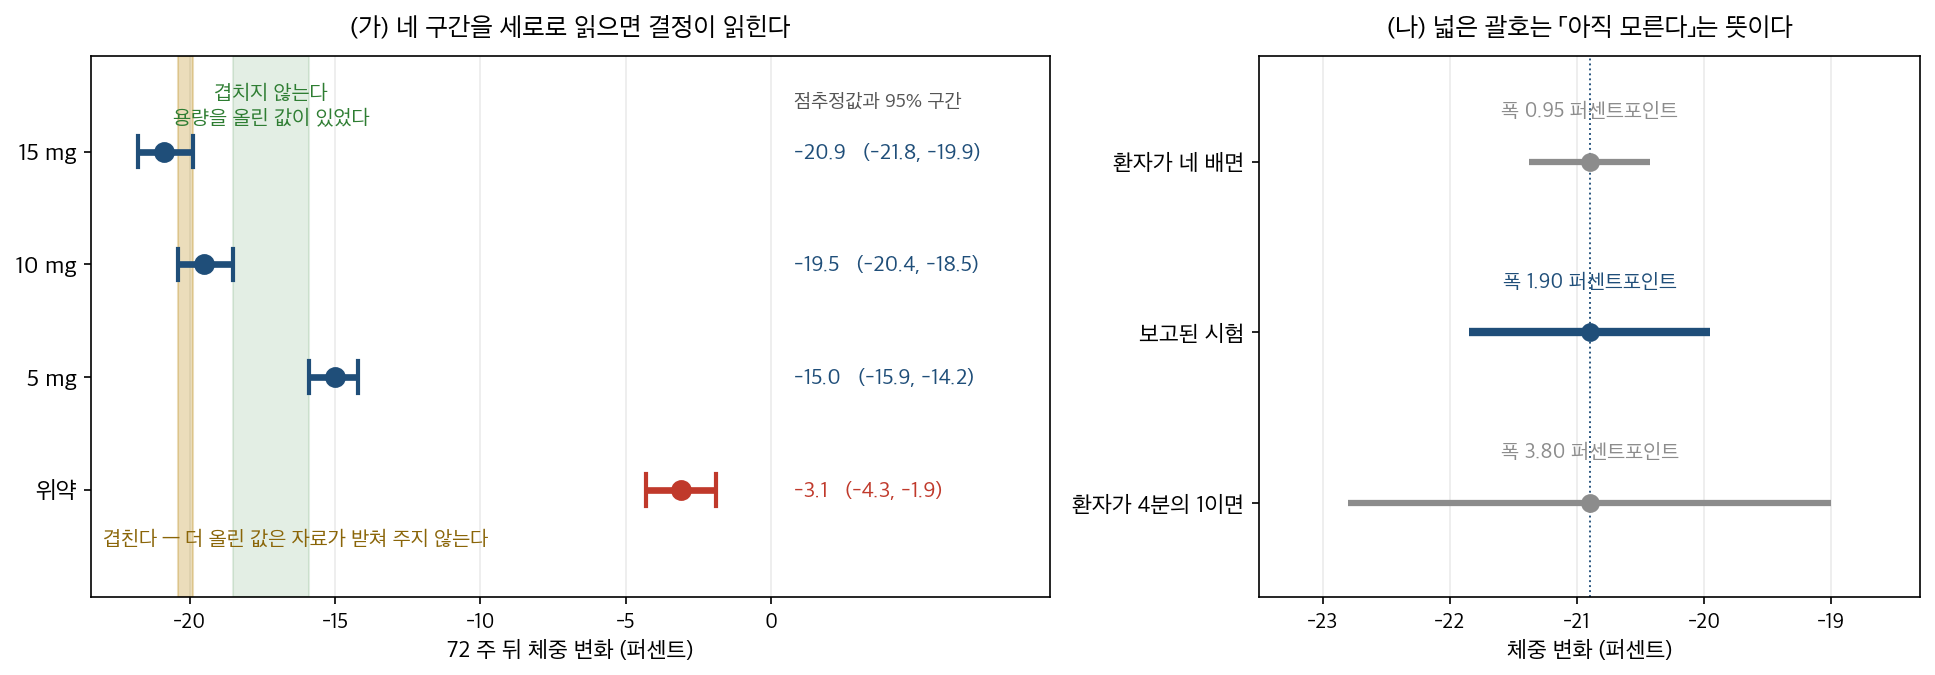
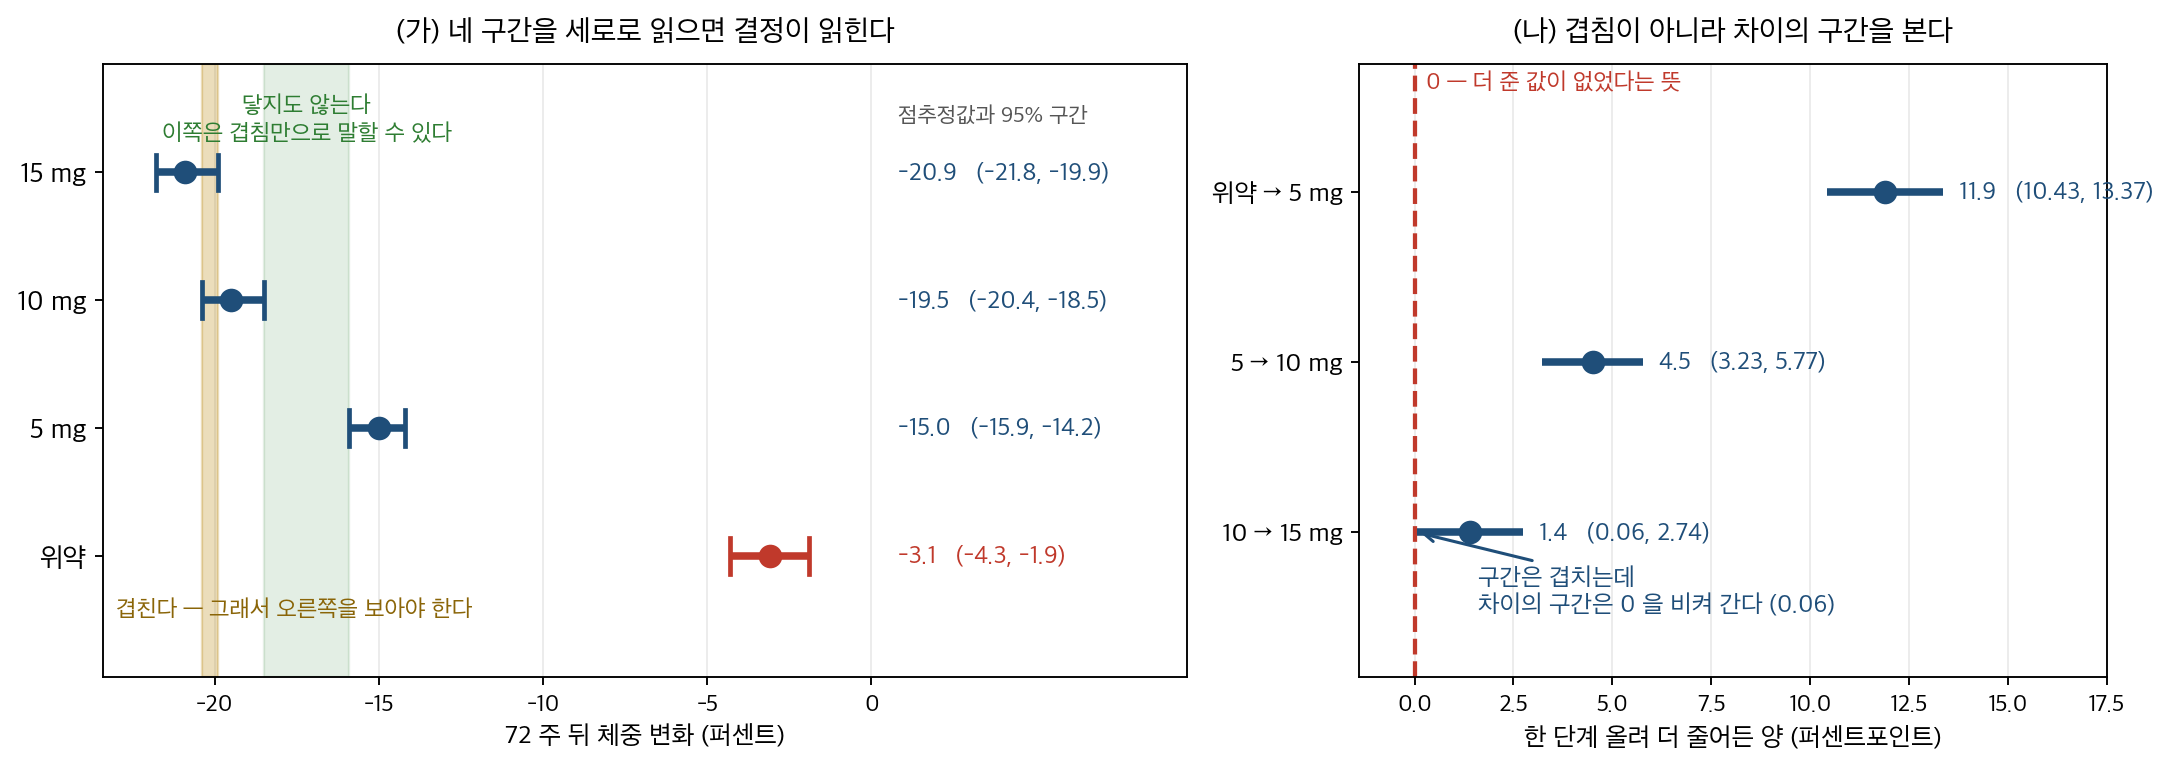
docs(ch08): 장 개요가 이 장이 바로잡는 습관을 가르치고 있었다
사용자가 오른쪽 패널이 심심하다고 짚어 주어 다시 보다가, **왼쪽 주석과
본문이 틀렸다는 것**을 알았다.

적고 있던 것: 「10 mg 과 15 mg 은 괄호가 겹친다 — 더 늘려서 얻은 1.4
퍼센트포인트는 자료가 받쳐 주지 못하는 것이다.」

그런데 같은 장 8.1절 error_bars 가 바로 그 습관을 다룬다 — 「막대가
겹치니 차이가 없다」고 읽으면 같은 자료에서 반대 결론이 나온다고.

그리고 이 자료에서 실제로 반대다. 보고된 네 구간에서 표준오차를 되짚어
차이의 구간을 구하면

  위약 → 5 mg   11.9  (10.43, 13.37)
  5 → 10 mg      4.5  ( 3.23,  5.77)
  10 → 15 mg     1.4  ( 0.06,  2.74)   ← 0 을 비켜 간다

마지막 걸음이 간신히 0 을 비켜 간다. 괄호가 겹치는데 차이는 유의하다.
**장 개요가, 그러니까 이 장을 펴면 가장 먼저 읽는 자리가, 틀린 판단을
가르치고 있었다.**

## 고친 것

- 오른쪽 패널을 1/sqrt(n) 환산에서 **세 걸음의 차와 그 구간**으로 바꿨다.
  심심하다는 지적이 맞았고, 바꾸고 보니 그 자리가 왼쪽의 틀린 읽기를
  고치는 자리이기도 했다
- 왼쪽 주석 「겹친다 — 더 올린 값은 자료가 받쳐 주지 않는다」를
  「겹친다 — 그래서 오른쪽을 보아야 한다」로
- 본문 한 단락을 둘로 나누고, 겹침으로 판단하면 안 되는 까닭과
  error_bars 로 가는 링크를 넣었다. 「괄호가 닿지 않으면 차이가 있다고
  말해도 되지만 그 반대는 성립하지 않는다」를 명시했다
- figcaption·대체텍스트·출처 줄을 새 오른쪽에 맞췄다

고치다가 낸 것 하나 — 출처 줄을 치환할 때 닫는 `_` 를 찾다가
`μ_D` 의 밑줄을 잡아 문장이 「…구했다_D (차이의 평균)의…」로 깨졌다.
한글 본문에서 `_` 를 구분자로 쓰면 수식 이름의 밑줄과 부딪힌다.

검사: 홀수 $ 0 · 홀수 ** 0 · 출처 줄이 _ 로 닫힘 · 대체텍스트 수식 0 ·
lint 다섯 모두 0 · mkdocs build --strict 통과

diff --git a/scripts/make_ch08_index_dose_intervals.py b/scripts/make_ch08_index_dose_intervals.py
@@ -1,10 +1,12 @@
 #!/usr/bin/env python3
 """8장 개요의 그림 — 네 용량의 신뢰구간을 세로로 맞대면 결정이 읽힌다.
 
-왼쪽: SURMOUNT-1 이 보고한 네 구간. 5 mg 과 10 mg 은 겹치는 데가 없고
-      10 mg 과 15 mg 은 겹친다. 용량을 올릴지를 이 그림이 답한다.
-오른쪽: 보고된 폭을 1/sqrt(n) 으로 환산해 본 것. 환자가 적었다면
-      괄호가 넓어지고, 넓은 괄호는 「아직 모른다」는 뜻이다.
+왼쪽: SURMOUNT-1 이 보고한 네 구간. 5 mg 과 10 mg 은 닿지도 않고
+      10 mg 과 15 mg 은 겹친다.
+오른쪽: **겹침으로 판단하면 안 된다.** 겹치는지가 아니라 차이 자체의 구간을
+      보아야 한다. 10 mg -> 15 mg 은 구간이 겹치는데도 차이의 구간이 0 을
+      비켜 간다 — 겹침만 보고 「더 준 값이 없었다」고 읽으면 반대로 답하게
+      된다. 8.1절 오차막대 그림이 그 습관을 따로 다룬다.
 
 자료: Jastreboff 외, 『New England Journal of Medicine』 387(2022) 205 쪽 초록.
 """
@@ -51,9 +53,9 @@ ax.text(LABEL_X, 3.45, "점추정값과 95% 구간", va="center", ha="left",
         fontsize=9.5, color="#555555")
 
 # 띠의 뜻은 지시선 없이 바로 위아래에 적는다 — 사선이 자료를 가로지르지 않게
-ax.text((gap_lo + gap_hi) / 2, 3.42, "겹치지 않는다\n용량을 올린 값이 있었다",
+ax.text((gap_lo + gap_hi) / 2, 3.42, "닿지도 않는다\n이쪽은 겹침만으로 말할 수 있다",
         ha="center", va="center", fontsize=10, color="#2e7d32", linespacing=1.35)
-ax.text(-23.0, -0.42, "겹친다 — 더 올린 값은 자료가 받쳐 주지 않는다",
+ax.text(-23.0, -0.42, "겹친다 — 그래서 오른쪽을 보아야 한다",
         ha="left", va="center", fontsize=10, color="#8a6508")
 
 ax.set_yticks(list(ys))
@@ -66,37 +68,58 @@ ax.set_title("(가) 네 구간을 세로로 읽으면 결정이 읽힌다", font
 ax.grid(axis="x", alpha=0.25)
 ax.set_axisbelow(True)
 
-# ── 오른쪽: 폭은 표본이 정한다
-EST, HALF = -20.9, (-19.9 - (-21.8)) / 2      # 보고된 반폭 0.95
-SCALES = [("환자가 4분의 1이면", 0.5, 2.0),    # 폭은 1/sqrt(n) 이므로 두 배
-          ("보고된 시험", 1.0, 1.0),
-          ("환자가 네 배면", 2.0, 0.5)]
-for y, (label, _, mult) in zip(range(len(SCALES)), SCALES):
-    h = HALF * mult
-    on = label == "보고된 시험"
-    color = "#1f4e79" if on else "#8c8c8c"
-    bx.plot([EST - h, EST + h], [y, y], color=color,
-            lw=4.0 if on else 3.0, solid_capstyle="butt", zorder=3)
-    bx.plot([EST], [y], "o", color=color, ms=8, zorder=4)
-    bx.text(EST, y + 0.26, f"폭 {2 * h:.2f} 퍼센트포인트", ha="center",
-            fontsize=10, color=color)
+# ── 오른쪽: 겹침이 아니라 차이 자체의 구간을 본다
+# 보고된 구간에서 표준오차를 되짚고(폭 = 2 x 1.96 x SE) 이웃한 두 팔의 차와
+# 그 구간을 만든다. 두 팔은 서로 다른 사람이므로 분산이 더해진다.
+import numpy as np
+from scipy import stats
 
-bx.axvline(EST, color="#1f4e79", lw=0.9, ls=":", zorder=2)
-bx.set_yticks(range(len(SCALES)))
-bx.set_yticklabels([s[0] for s in SCALES], fontsize=11)
-bx.set_xlim(EST - 2.6, EST + 2.6)
-bx.set_ylim(-0.55, 2.62)
-bx.set_xlabel("체중 변화 (퍼센트)", fontsize=11)
-bx.set_title("(나) 넓은 괄호는 「아직 모른다」는 뜻이다", fontsize=12.5, pad=10)
+Z = stats.norm.ppf(0.975)
+se = {n: (hi - lo) / 2 / Z for n, _, lo, hi in ARMS}
+pt = {n: e for n, e, _, _ in ARMS}
+
+STEPS = [("위약 → 5 mg", "위약", "5 mg"),
+         ("5 → 10 mg", "5 mg", "10 mg"),
+         ("10 → 15 mg", "10 mg", "15 mg")]
+rows = []
+for label, a_, b_ in STEPS:
+    d = pt[a_] - pt[b_]                      # 한 단계 올려 더 줄어든 퍼센트포인트
+    sd = np.hypot(se[a_], se[b_])
+    rows.append((label, d, d - Z * sd, d + Z * sd))
+
+yy = np.arange(len(rows))[::-1]
+for y, (label, d, lo, hi) in zip(yy, rows):
+    c = "#1f4e79" if lo > 0 else "#c0392b"
+    bx.plot([lo, hi], [y, y], color=c, lw=3.2, solid_capstyle="butt", zorder=3)
+    bx.plot([d], [y], "o", color=c, ms=9, zorder=4)
+    bx.text(hi + 0.4, y, f"{d:.1f}   ({lo:.2f}, {hi:.2f})", va="center",
+            ha="left", fontsize=10.5, color=c)
+
+bx.axvline(0, color="#c0392b", ls="--", lw=1.8, zorder=2)
+bx.text(0.3, len(rows) - 0.42, "0 — 더 준 값이 없었다는 뜻", ha="left",
+        va="bottom", fontsize=10, color="#c0392b")
+last = rows[-1]
+bx.annotate(f"구간은 겹치는데\n차이의 구간은 0 을 비켜 간다 ({last[2]:.2f})",
+            (last[2], yy[-1]), textcoords="offset points", xytext=(26, -34),
+            ha="left", fontsize=10.5, color="#1f4e79", fontweight="bold",
+            arrowprops=dict(arrowstyle="->", color="#1f4e79", lw=1.3))
+
+bx.set_yticks(list(yy))
+bx.set_yticklabels([r[0] for r in rows], fontsize=11)
+bx.set_xlim(-1.4, 17.5)
+bx.set_ylim(-0.85, len(rows) - 0.25)
+bx.set_xlabel("한 단계 올려 더 줄어든 양 (퍼센트포인트)", fontsize=11)
+bx.set_title("(나) 겹침이 아니라 차이의 구간을 본다", fontsize=12.5, pad=10)
 bx.grid(axis="x", alpha=0.25)
 bx.set_axisbelow(True)
 
 fig.tight_layout()
-fig.savefig(OUT + "dose_intervals.png", dpi=150, bbox_inches="tight")
-print("saved", OUT + "dose_intervals.png")
+fig.savefig(OUT + "dose_intervals.png", dpi=170, bbox_inches="tight", facecolor="white")
 
-# 쪽에 적은 수가 그림과 맞는지 확인
+print("saved", OUT + "dose_intervals.png")
 print(f"5 mg 위끝 {ARMS[1][3]} 와 10 mg 아래끝 {ARMS[2][2]} 사이 빈 구간 폭 "
-      f"{gap_hi - gap_lo:.1f}")
+      f"{abs(ARMS[2][2] - ARMS[1][3]):.1f}")
 print(f"10 mg 과 15 mg 이 겹치는 구간 ({ov_lo}, {ov_hi}) 폭 {ov_hi - ov_lo:.1f}")
-print(f"보고된 반폭 {HALF:.2f} -> 폭 {2 * HALF:.2f}")
+for label, d, lo, hi in rows:
+    print(f"  {label:12s} {d:5.2f}  ({lo:6.3f}, {hi:6.3f})  "
+          f"0 을 {'비켜 간다' if lo > 0 else '담는다'}")

diff --git a/docs/ch08/index.md b/docs/ch08/index.md
@@ -10,14 +10,16 @@
 
 괄호가 왜 필요한지는 그것을 떼어 보면 안다. 「이 약은 몸무게를 $20.9\%$ 줄인다」라고만 적으면, 읽는 사람은 자기도 꼭 그만큼 빠질 것처럼 받아들인다. 그런데 연구자가 가진 것은 몇천 명을 재어 본 결과일 뿐이다. 다른 몇천 명을 새로 모아 다시 재면 수는 조금 달라진다. 괄호는 **그 흔들림의 크기**를 적은 것이고, 사람을 적게 모았으면 괄호가 넓어진다. **넓은 괄호는 「아직 잘 모른다」는 뜻이다.**
 
-괄호는 결정에도 쓰인다. 이 시험은 약을 세 가지 양으로 나누어 주었다. 적게 준 쪽은 $15.0\%$, 중간은 $19.5\%$, 많이 준 쪽은 $20.9\%$ 가 빠졌다. 수만 보면 많이 줄수록 좋아 보인다. 그런데 괄호를 보면 이야기가 갈린다. 적게 준 쪽과 중간 쪽은 괄호가 **서로 닿지도 않는다** — 양을 늘린 값이 분명히 있었다는 뜻이다. 반면 중간과 많이 준 쪽은 괄호가 **겹친다.** 더 늘려서 얻은 $1.4$ 퍼센트포인트는 자료가 받쳐 주지 못하는 것이다. 수 세 개로는 할 수 없고 **괄호 세 개라야 할 수 있는 판단**이다.
+괄호는 결정에도 쓰인다. 이 시험은 약을 세 가지 양으로 나누어 주었다. 적게 준 쪽은 $15.0\%$, 중간은 $19.5\%$, 많이 준 쪽은 $20.9\%$ 가 빠졌다. 수만 보면 많이 줄수록 좋아 보인다. 그런데 괄호를 보면 이야기가 갈린다. 적게 준 쪽과 중간 쪽은 괄호가 **서로 닿지도 않는다** — 양을 늘린 값이 분명히 있었다는 뜻이다. 반면 중간과 많이 준 쪽은 괄호가 **겹친다.**
+
+여기서 「그러니 더 늘린 값은 없었다」로 넘어가기 쉬운데, **그것이 틀린 읽기다.** 괄호가 겹치는지를 보는 것과 **차이 자체에 괄호를 붙이는 것**은 다른 일이고, 뒤쪽이 맞는 길이다. 실제로 해 보면 더 늘려서 얻은 $1.4$ 퍼센트포인트에 $(0.06,\ 2.74)$ 가 붙어 **$0$ 을 아슬아슬하게 비켜 간다.** 겹침만 보고 판단했다면 **반대로 답했을 자리다.** 괄호가 닿지 않으면 차이가 있다고 말해도 되지만, 그 반대는 성립하지 않는다 — 8.1절 [오차막대 그림](foundations/error_bars.md)이 그 어긋남을 따로 다룬다. 수 세 개로는 할 수 없고 **괄호라야 할 수 있는 판단**이다.
 
 <figure markdown>
-![약을 세 가지 양으로 준 결과와 각각의 범위, 그리고 사람을 적게 또는 많이 모았을 때 범위가 어떻게 넓어지고 좁아지는지](img/dose_intervals.png){ width="900" }
-  <figcaption markdown>왼쪽에서 가로축은 체중이 **줄어든** 쪽이 왼쪽이다. 녹색 띠는 적게 준 쪽과 중간 쪽의 범위 **사이에 비어 있는 자리**이고, 노란 띠는 중간과 많이 준 쪽의 범위가 **겹치는 자리**다. 오른쪽은 사람 수가 네 배이거나 $4$ 분의 $1$ 이었다면 범위가 어떻게 되었을지를 $1/\sqrt n$ 으로 환산해 본 것이다 — 시험이 실제로 보고한 것은 가운데 줄 하나뿐이다.</figcaption>
+![왼쪽은 약을 세 가지 양으로 준 결과와 위약의 네 범위를 세로로 늘어놓은 그림. 적게 준 쪽과 중간 쪽의 범위는 닿지 않고 중간과 많이 준 쪽은 겹친다. 오른쪽은 한 단계 올려 더 줄어든 양과 그 범위로, 11.9 와 4.5 와 1.4 가 모두 0 의 오른쪽에 있고 마지막 것의 왼쪽 끝이 0.06 이다](img/dose_intervals.png){ width="900" }
+  <figcaption markdown>왼쪽에서 가로축은 체중이 **줄어든** 쪽이 왼쪽이다. 녹색 띠는 적게 준 쪽과 중간 쪽의 범위 **사이에 비어 있는 자리**이고, 노란 띠는 중간과 많이 준 쪽의 범위가 **겹치는 자리**다. 오른쪽이 그 겹침을 어떻게 읽어야 하는지를 보인다 — 한 단계 올려 **더** 줄어든 양과 그 괄호다. 세 걸음 모두 괄호가 $0$ 을 비켜 가고, 마지막 걸음은 $(0.06,\ 2.74)$ 로 **간신히** 비켜 간다. 왼쪽에서 겹쳐 보이던 바로 그 걸음이다.</figcaption>
 </figure>
 
-_확인한 곳 — Jastreboff 외, 『New England Journal of Medicine』 $387$($2022$) $205$ 쪽의 초록 — $72$ 주 뒤 체중 변화가 $5$ mg $-15.0\%$ $(-15.9,\ -14.2)$, $10$ mg $-19.5\%$ $(-20.4,\ -18.5)$, $15$ mg $-20.9\%$ $(-21.8,\ -19.9)$, 위약 $-3.1\%$ $(-4.3,\ -1.9)$. 구간이 겹치는지와 그림 왼쪽의 두 띠는 그 네 줄에서 직접 읽은 것이고, **그림 오른쪽은 보고된 폭을 $1/\sqrt n$ 으로 환산해 본 것이지 시험이 보고한 수가 아니다.** 이 구간들이 이 장의 식에서 나온 것인지는 8.4절 [μ_D (차이의 평균)의 신뢰구간](paired_sample_intervals/ci_mu_paired.md)이 밝힌다_
+_확인한 곳 — Jastreboff 외, 『New England Journal of Medicine』 $387$($2022$) $205$ 쪽의 초록 — $72$ 주 뒤 체중 변화가 $5$ mg $-15.0\%$ $(-15.9,\ -14.2)$, $10$ mg $-19.5\%$ $(-20.4,\ -18.5)$, $15$ mg $-20.9\%$ $(-21.8,\ -19.9)$, 위약 $-3.1\%$ $(-4.3,\ -1.9)$. 구간이 겹치는지와 그림 왼쪽의 두 띠는 그 네 줄에서 직접 읽은 것이다. **그림 오른쪽의 차와 그 구간은 보고된 네 구간에서 표준오차를 되짚어 직접 계산한 값이지 시험이 보고한 수가 아니다** — 두 팔이 서로 다른 사람이므로 분산을 더해 구했다. 이 구간들이 이 장의 식에서 나온 것인지는 8.4절 [μ_D (차이의 평균)의 신뢰구간](paired_sample_intervals/ci_mu_paired.md)이 밝힌다_
 
 </div>
 
